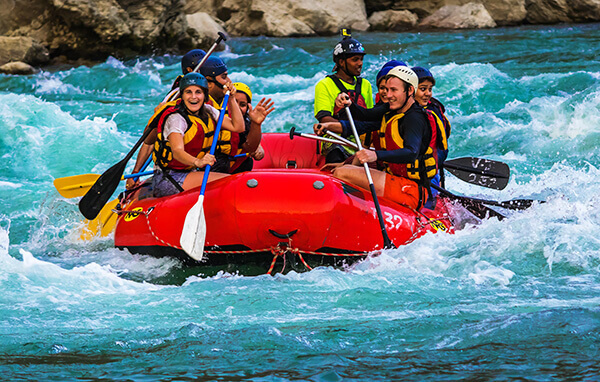
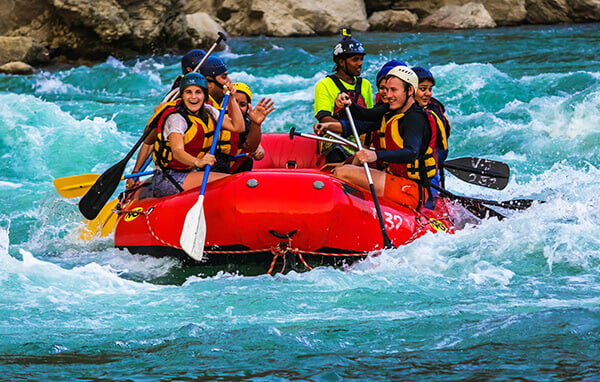
update week 4 0.1

diff --git a/wwr/about.html b/wwr/about.html
@@ -39,7 +39,7 @@
             <div class="history">
 
                 <h2>History</h2>
-                <img src="images/history.jpg" alt="history">
+
                 <p>Rafting Travel was founded in 2018 by a group of outdoor
                     enthusiasts who shared a
                     passion for white water rafting and nature. What began as a small local
@@ -49,6 +49,7 @@
                     mission of creating exciting adventures while promoting safety, teamwork, and
                     respect for the environment.
                 </p>
+                <img src="images/history.jpg" alt="People rafting through a river canyon">
                 <p>As the years passed, Rafting Travel expanded its routes, improved its safety
                     training, and welcomed
                     more visitors from different places. Our team remains committed to offering
@@ -60,47 +61,47 @@
             <h2 class="adventure">Adventure Awaits You!</h2>
             <div class="gallery">
                 <figure>
-                    <img src="images/canoagem1.jpg" alt="adventure 1">
+                    <img src="images/canoagem1.jpg" alt="Group rafting through white water rapids">
 
 
                     <figcaption>
-                        adventure 1
+                        Devil's Rapids
                     </figcaption>
                 </figure>
 
                 <figure>
-                    <img src="images/canoagem2.jpg" alt="adventure 2">
+                    <img src="images/canoagem2.jpg" alt="Big Mallard">
 
 
                     <figcaption>
-                        adventure 2
+                        Big Mallard
                     </figcaption>
                 </figure>
 
                 <figure>
-                    <img src="images/canoagem3.jpg" alt="adventure 3">
+                    <img src="images/canoagem3.jpg" alt="River Explorer">
 
 
                     <figcaption>
-                        adventure 3
+                        River Explorer
                     </figcaption>
                 </figure>
 
                 <figure>
-                    <img src="images/canoagem4.jpg" alt="adventure 4">
+                    <img src="images/canoagem4.jpg" alt="Half Day Adventure">
 
 
                     <figcaption>
-                        adventure 4
+                        Half Day Adventure
                     </figcaption>
                 </figure>
 
                 <figure>
-                    <img src="images/canoagem5.jpg" alt="adventure 5">
+                    <img src="images/canoagem5.jpg" alt="White Water Challenge">
 
 
                     <figcaption>
-                        adventure 5
+                        White Water Challeng
                     </figcaption>
                 </figure>
             </div>

diff --git a/wwr/styles/rafting.css b/wwr/styles/rafting.css
@@ -33,6 +33,7 @@ header {
 
     padding: 20px;
     color: var(--accent2-color);
+    background-color: var(--primary-color);
 }
 
 header img {
@@ -68,10 +69,10 @@ nav {
 }
 
 nav a {
-    color: var(--secondary-color);
+    color: white;
     padding: 12px 20px;
-    border: 1px solid #666;
-    background-color: white;
+    border: none;
+    background-color: transparent;
     text-decoration: none;
 }
 
@@ -183,6 +184,7 @@ nav a {
 
 .socialmedia {
     display: flex;
+    justify-content: flex-end;
     gap: 15px;
 }
 
